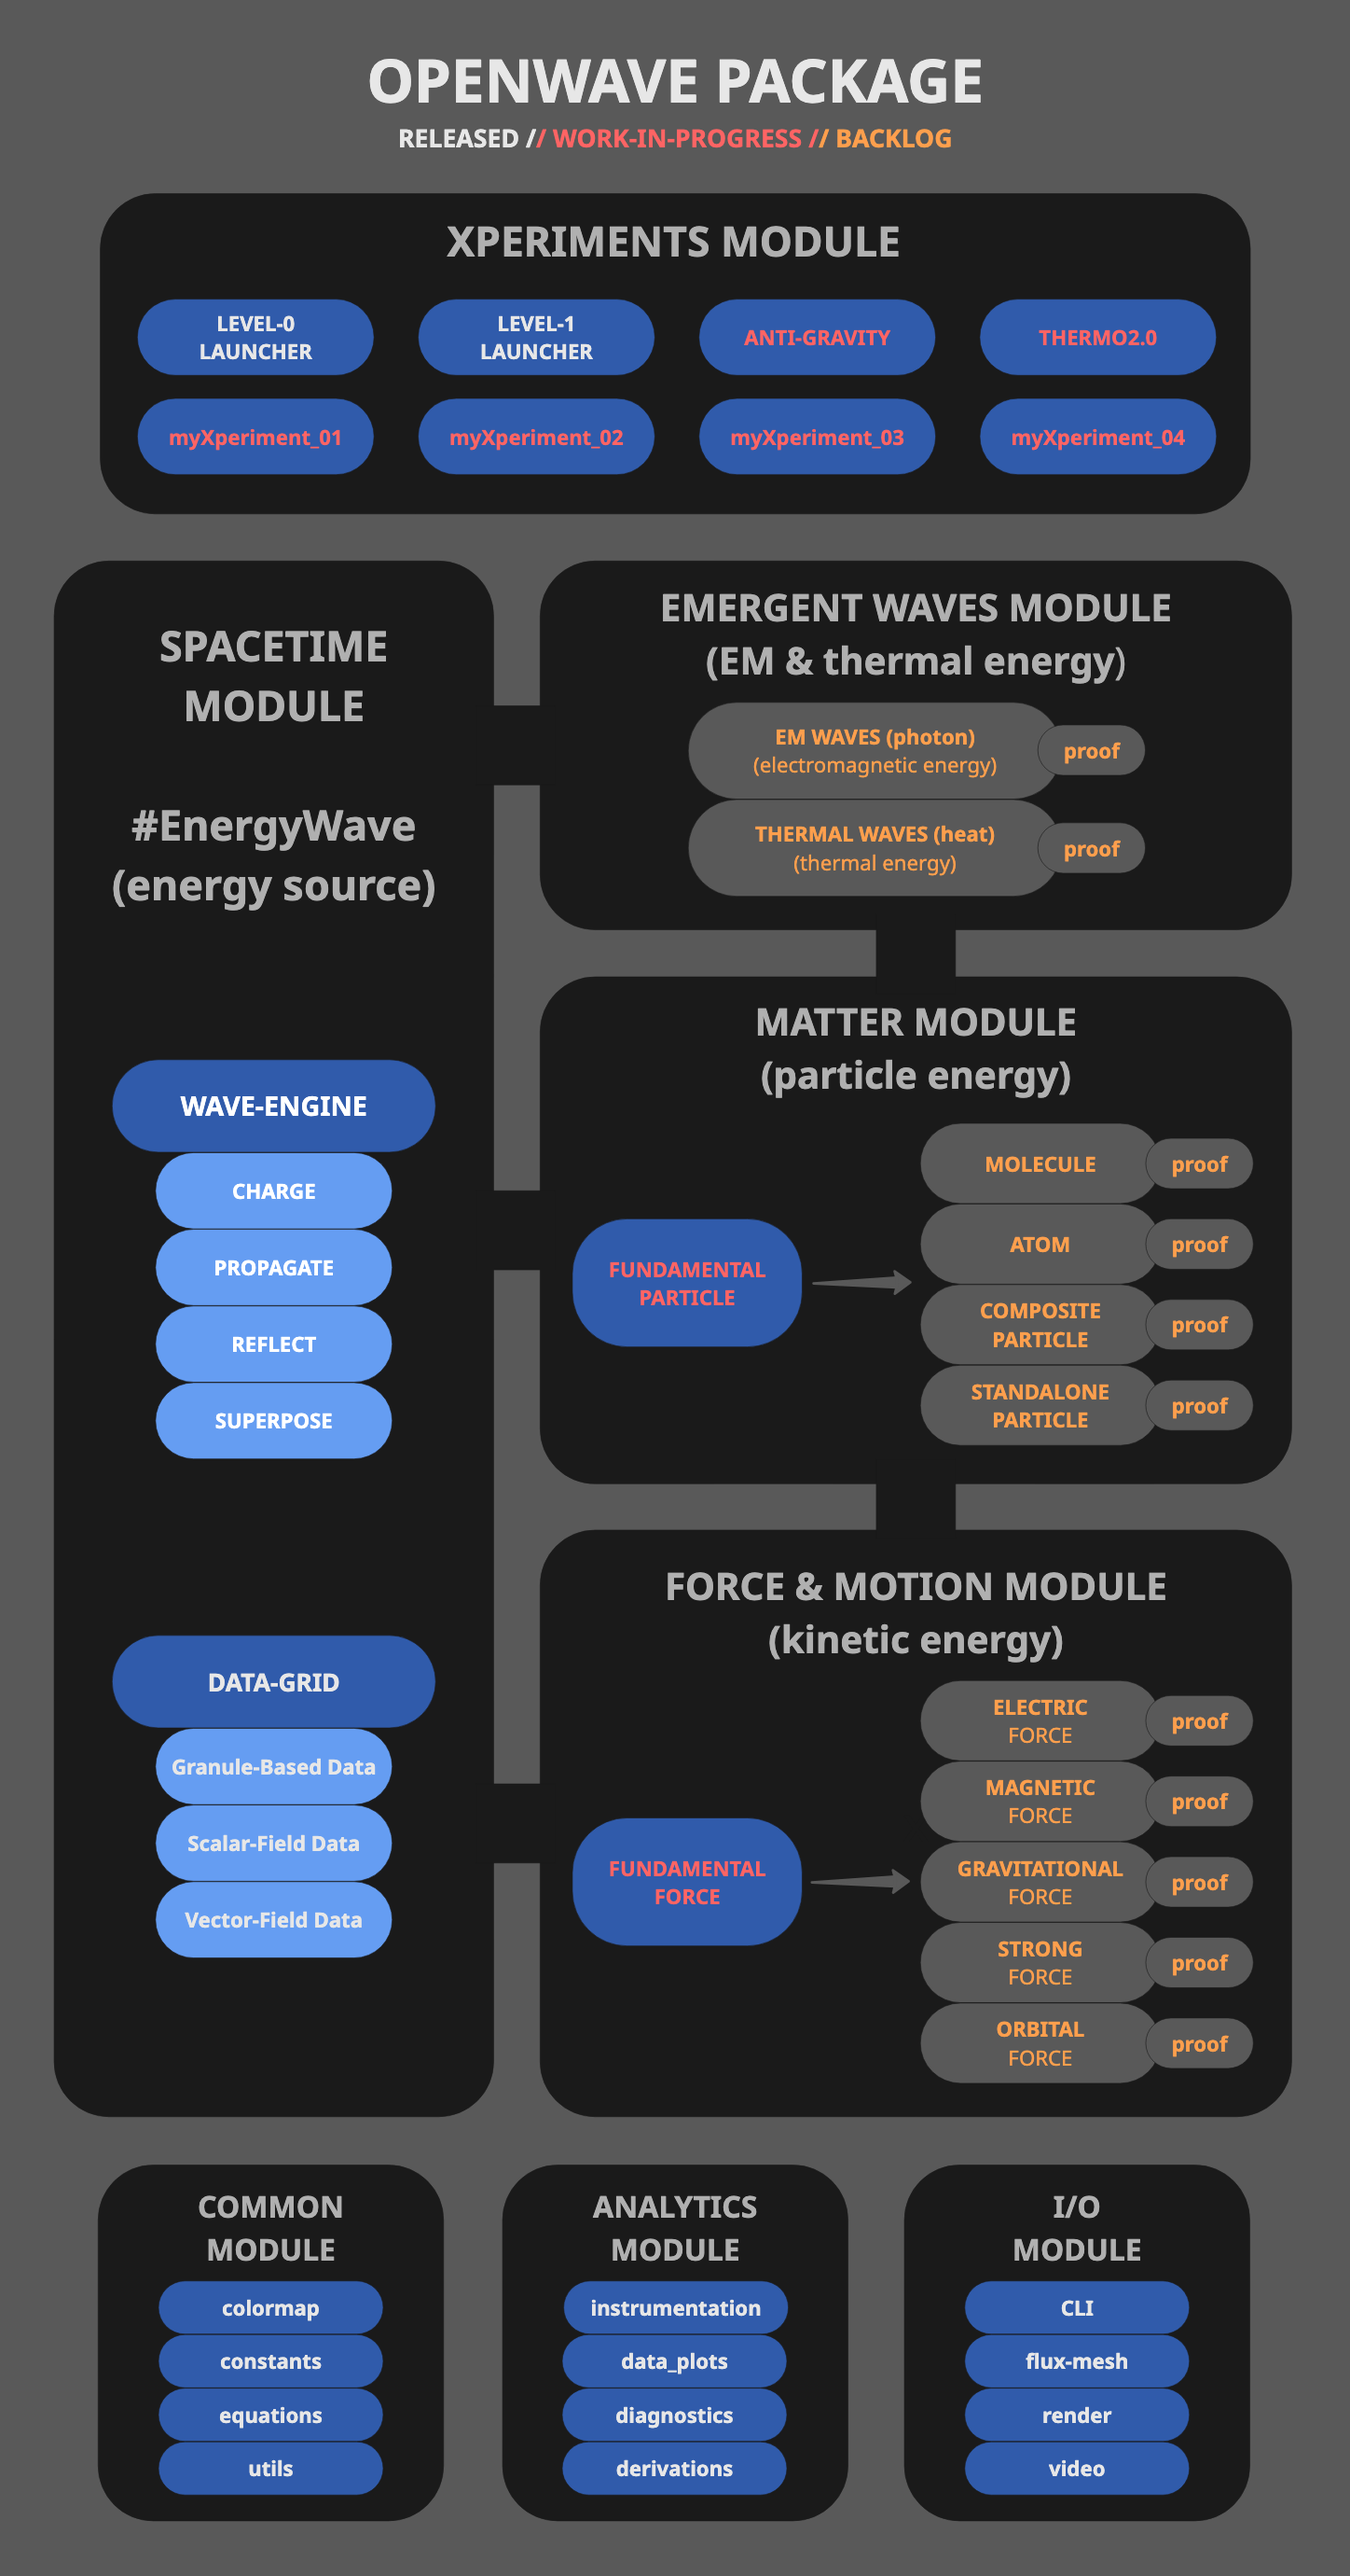
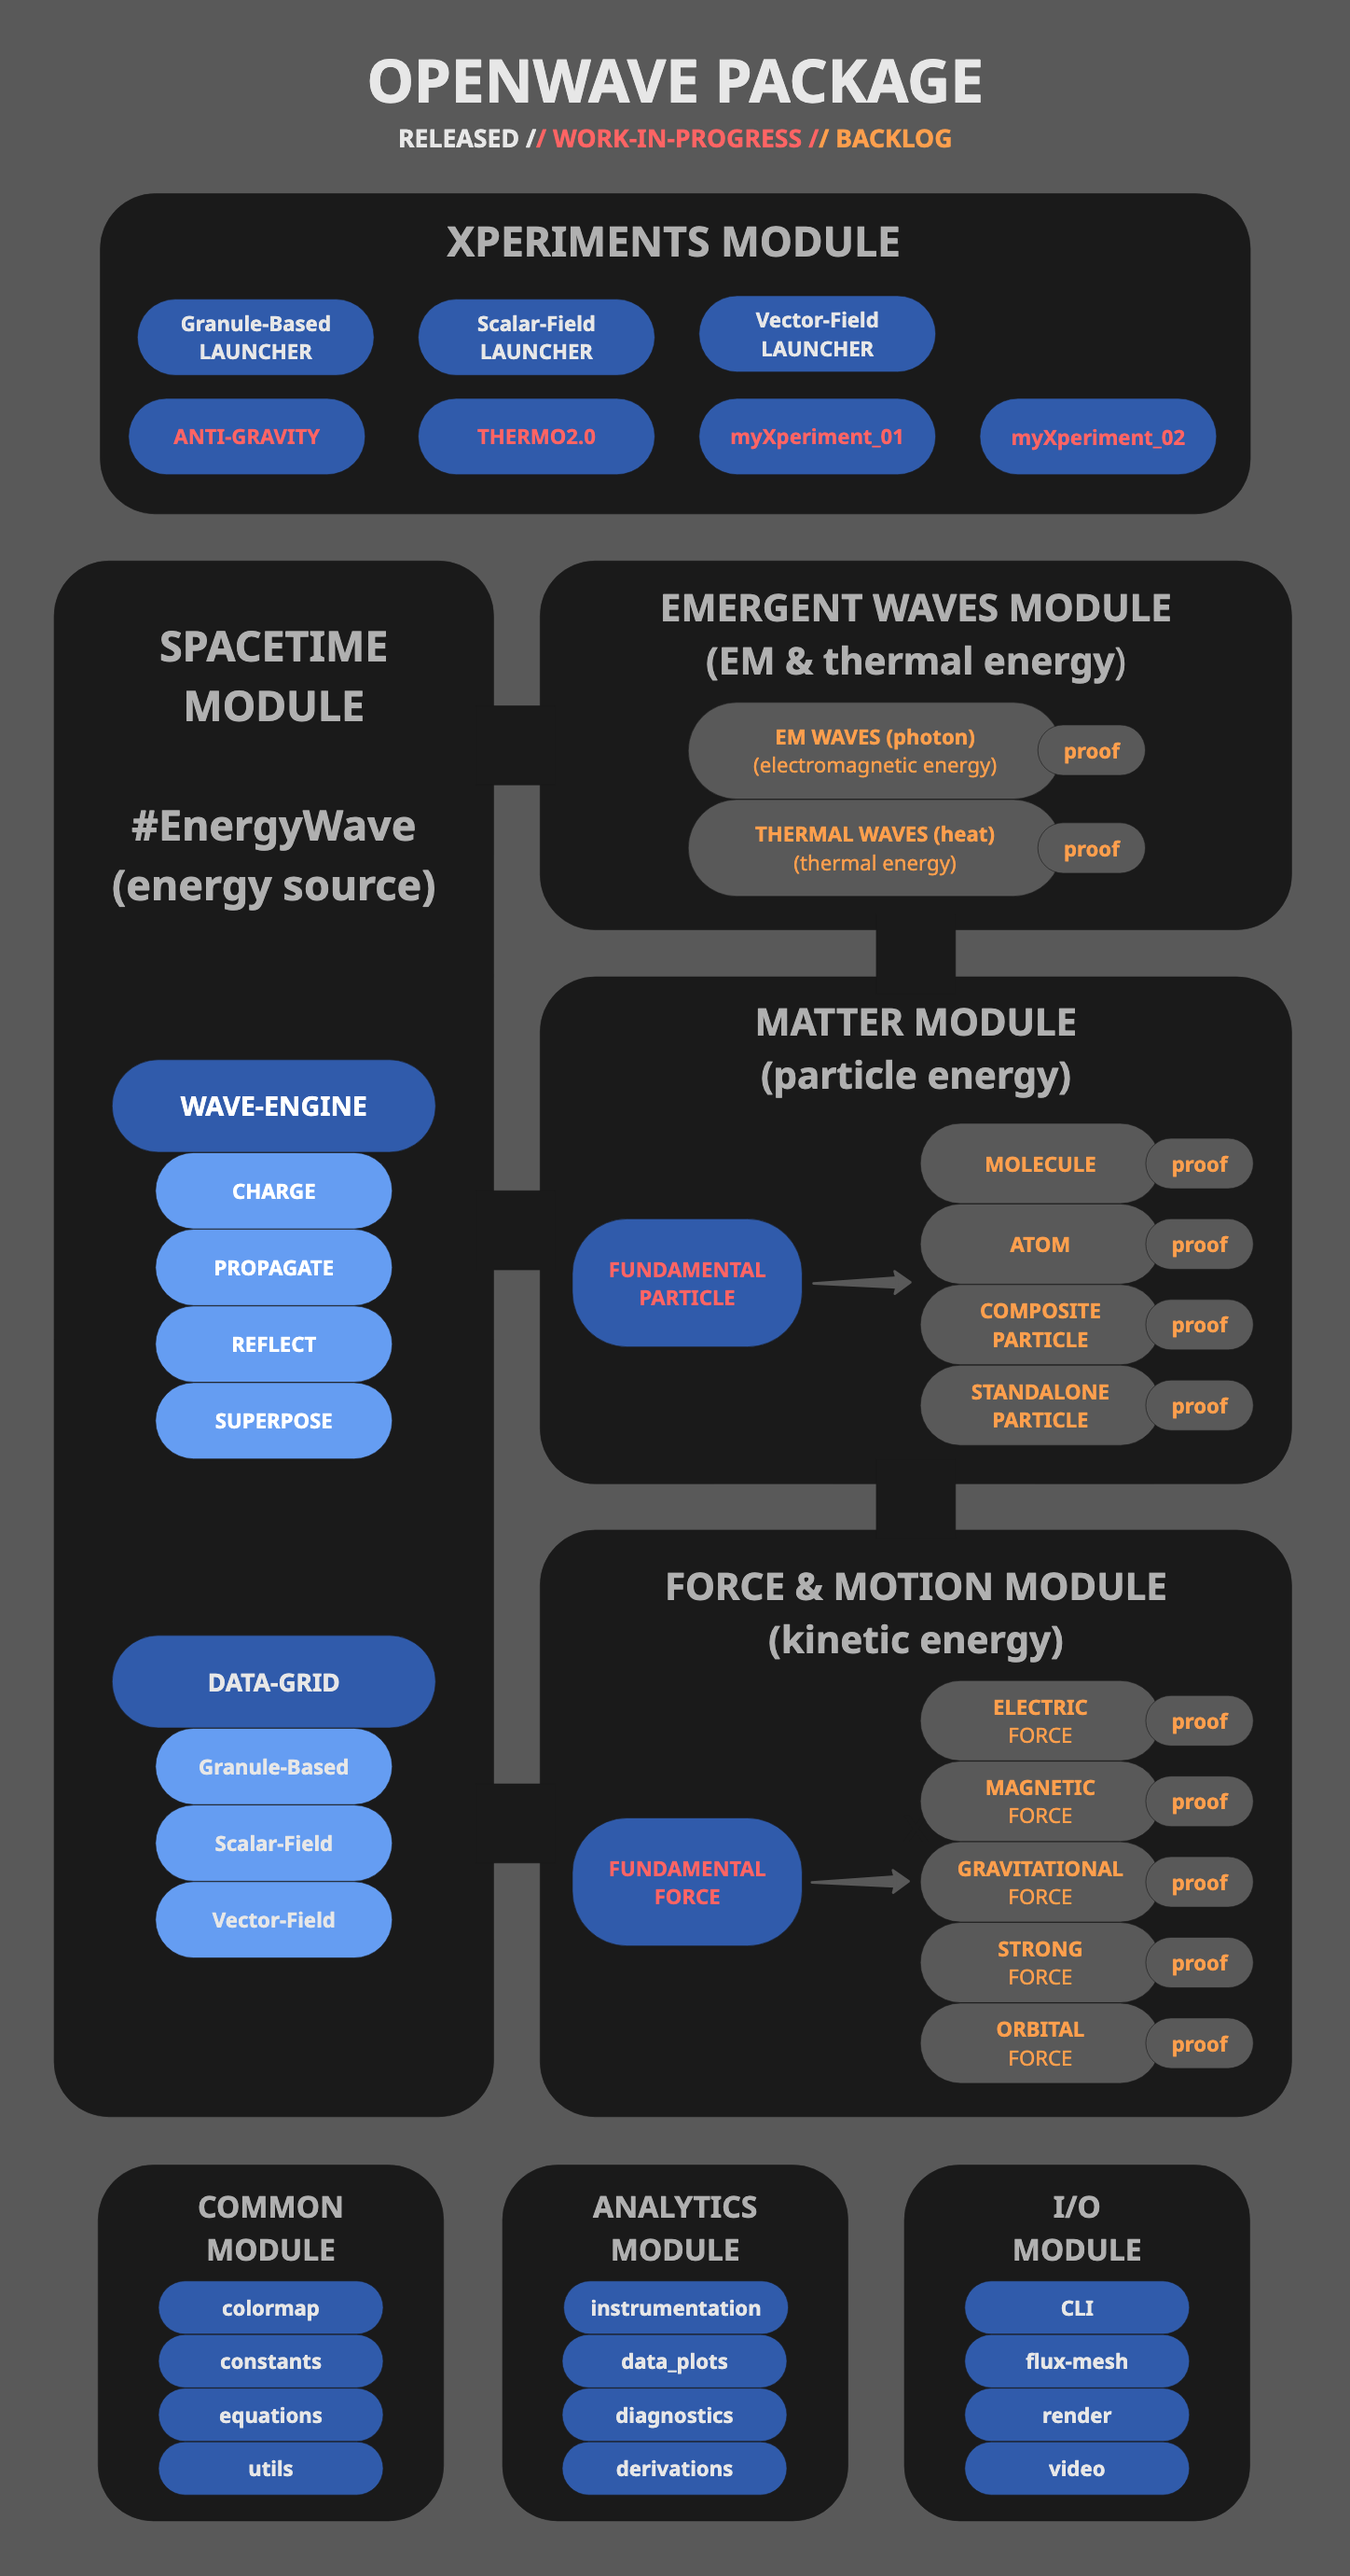
Update terminology to 'granule-based method' in docs
Replaced references to 'granule method' with 'granule-based method' in README.md and WELCOME.md for consistency and clarity. Updated roadmap.png image to reflect these changes.

diff --git a/WELCOME.md b/WELCOME.md
@@ -4,7 +4,7 @@
 
 OpenWave is an open-source subatomic wave simulator that supports exploration of fundamental physics theories. It's built as a computational physics toolkit applying classical wave mechanics for modeling matter and energy phenomena using wave-field dynamics.
 
-The project implements a proposed mathematical framework through various complementary approaches: the SCALAR-FIELD method (similar to lattice gauge theory), the VECTOR-FIELD method, both for research simulations, and the GRANULE method for educational visualization.
+The project implements a proposed mathematical framework through various complementary approaches: the SCALAR-FIELD method (similar to lattice gauge theory), the VECTOR-FIELD method, both for research simulations, and the GRANULE-BASED method for educational visualization.
 
 ![OpenWave Logo](images/openwave-white-small.png#gh-dark-mode-only)![OpenWave Logo](images/openwave-black-small.png#gh-light-mode-only)
 
@@ -22,7 +22,7 @@ OpenWave provides complementary ways to explore wave mechanics:
 - **Purpose:** Research simulations for matter formation, force modeling, numerical validation
 - **Use Case:** Scientific research, advanced simulations, subatomic engineering
 
-### Granule Method (Education Oriented)
+### Granule-Based Method (Education Oriented)
 
 **Status:** Released and Available
 
@@ -32,22 +32,22 @@ OpenWave provides complementary ways to explore wave mechanics:
 - **Purpose:** Educational visualization, understanding wave formation
 - **Use Case:** Learning, illustration, animation, introduction to wave concepts
 
-**Key Insight:** WAVE-FIELD methods uses the same computational approach as quantum field theory (lattice discretization), while GRANULE method provides intuitive visuals. Both are computational tools for investigating wave dynamics models of physical phenomena.
+**Key Insight:** WAVE-FIELD methods uses the same computational approach as quantum field theory (lattice discretization), while GRANULE-BASED method provides intuitive visuals. Both are computational tools for investigating wave dynamics models of physical phenomena.
 
 ## Xperiments
 
 OpenWave Xperiments is a collection of interactive physics simulations that brings wave-field dynamics to life through real-time visualization and computation.
 
-**Currently Available: GRANULE method Demos** showcase wave mechanics fundamentals through intuitive visualizations. These xperiments demonstrate how waves propagate, interfere, and create standing patterns - the foundational concepts that will be scaled up in WAVE-FIELD research simulations.
+**Currently Available: GRANULE-BASED method Demos** showcase wave mechanics fundamentals through intuitive visualizations. These xperiments demonstrate how waves propagate, interfere, and create standing patterns - the foundational concepts that will be scaled up in WAVE-FIELD research simulations.
 
 Each Xperiment is fully customizable (via user controls and Python scripting), enabling you to adjust parameters such as universe size, wave source configurations, and visualization settings to investigate wave behavior at different scales.
 
 **Recommended:**
 
-- **Follow the GRANULE demo sequence below if you are new to OpenWave**
+- **Follow the GRANULE-BASED demo sequence below if you are new to OpenWave**
 - **WAVE-FIELD research tools** are under development for matter formation simulations
 
-## XPERIMENTS GRANULE DEMO (start here)
+## XPERIMENTS GRANULE-BASED DEMO (start here)
 
 ### 1. Spacetime Vibration
 
@@ -162,12 +162,12 @@ OpenWave implements [Energy Wave Theory (EWT)](https://energywavetheory.com "Ene
 **OpenWave's Computational Implementation:**
 
 - **WAVE-FIELD Methods** uses lattice wave-field theory methodology (similar to lattice QCD) with EWT's field equations
-- **GRANULE Method** provides particle-based visualizations for intuitive understanding
+- **GRANULE-BASED Method** provides particle-based visualizations for intuitive understanding
 - Both are computational frameworks for investigating EWT's mathematical predictions against experimentally observed physics
 
 ## OPENWAVE LEVELS
 
-| OPENWAVE | GRANULE (shipped) | WAVE-FIELD (WIP) | (future) |
+| OPENWAVE | GRANULE-BASED (shipped) | WAVE-FIELD (WIP) | (future release) |
 | ---------- | --------------------- | --------------- | ------------------ |
 | SCALE | planck-scale to λ | λ-scale to molecules | molecules to human-scale |
 | LOGIC | GRANULE-BASED METHOD | FIELD-BASED METHOD | ADVANCED COMPUTING PLATFORMS |

diff --git a/README.md b/README.md
@@ -17,7 +17,7 @@
 
 OpenWave is an open-source subatomic wave simulator that supports exploration of fundamental physics theories. It's built as a computational physics toolkit applying classical wave mechanics for modeling matter and energy phenomena using wave-field dynamics.
 
-The project implements a proposed mathematical framework through various complementary approaches: the SCALAR-FIELD method (similar to lattice gauge theory), the VECTOR-FIELD method, both for research simulations, and the GRANULE method for educational visualization.
+The project implements a proposed mathematical framework through various complementary approaches: the SCALAR-FIELD method (similar to lattice gauge theory), the VECTOR-FIELD method, both for research simulations, and the GRANULE-BASED method for educational visualization.
 
 ### Computational Approaches
 
@@ -28,7 +28,7 @@ The project implements a proposed mathematical framework through various complem
 - Scalable for matter formation and force simulations
 - Indexed by spatial coordinates with field properties at each voxel
 
-#### Granule Method (Education Oriented)
+#### Granule-Based Method (Education Oriented)
 
 - Discrete particle visualization with phase-shifted oscillations
 - Intuitive for understanding wave mechanics
